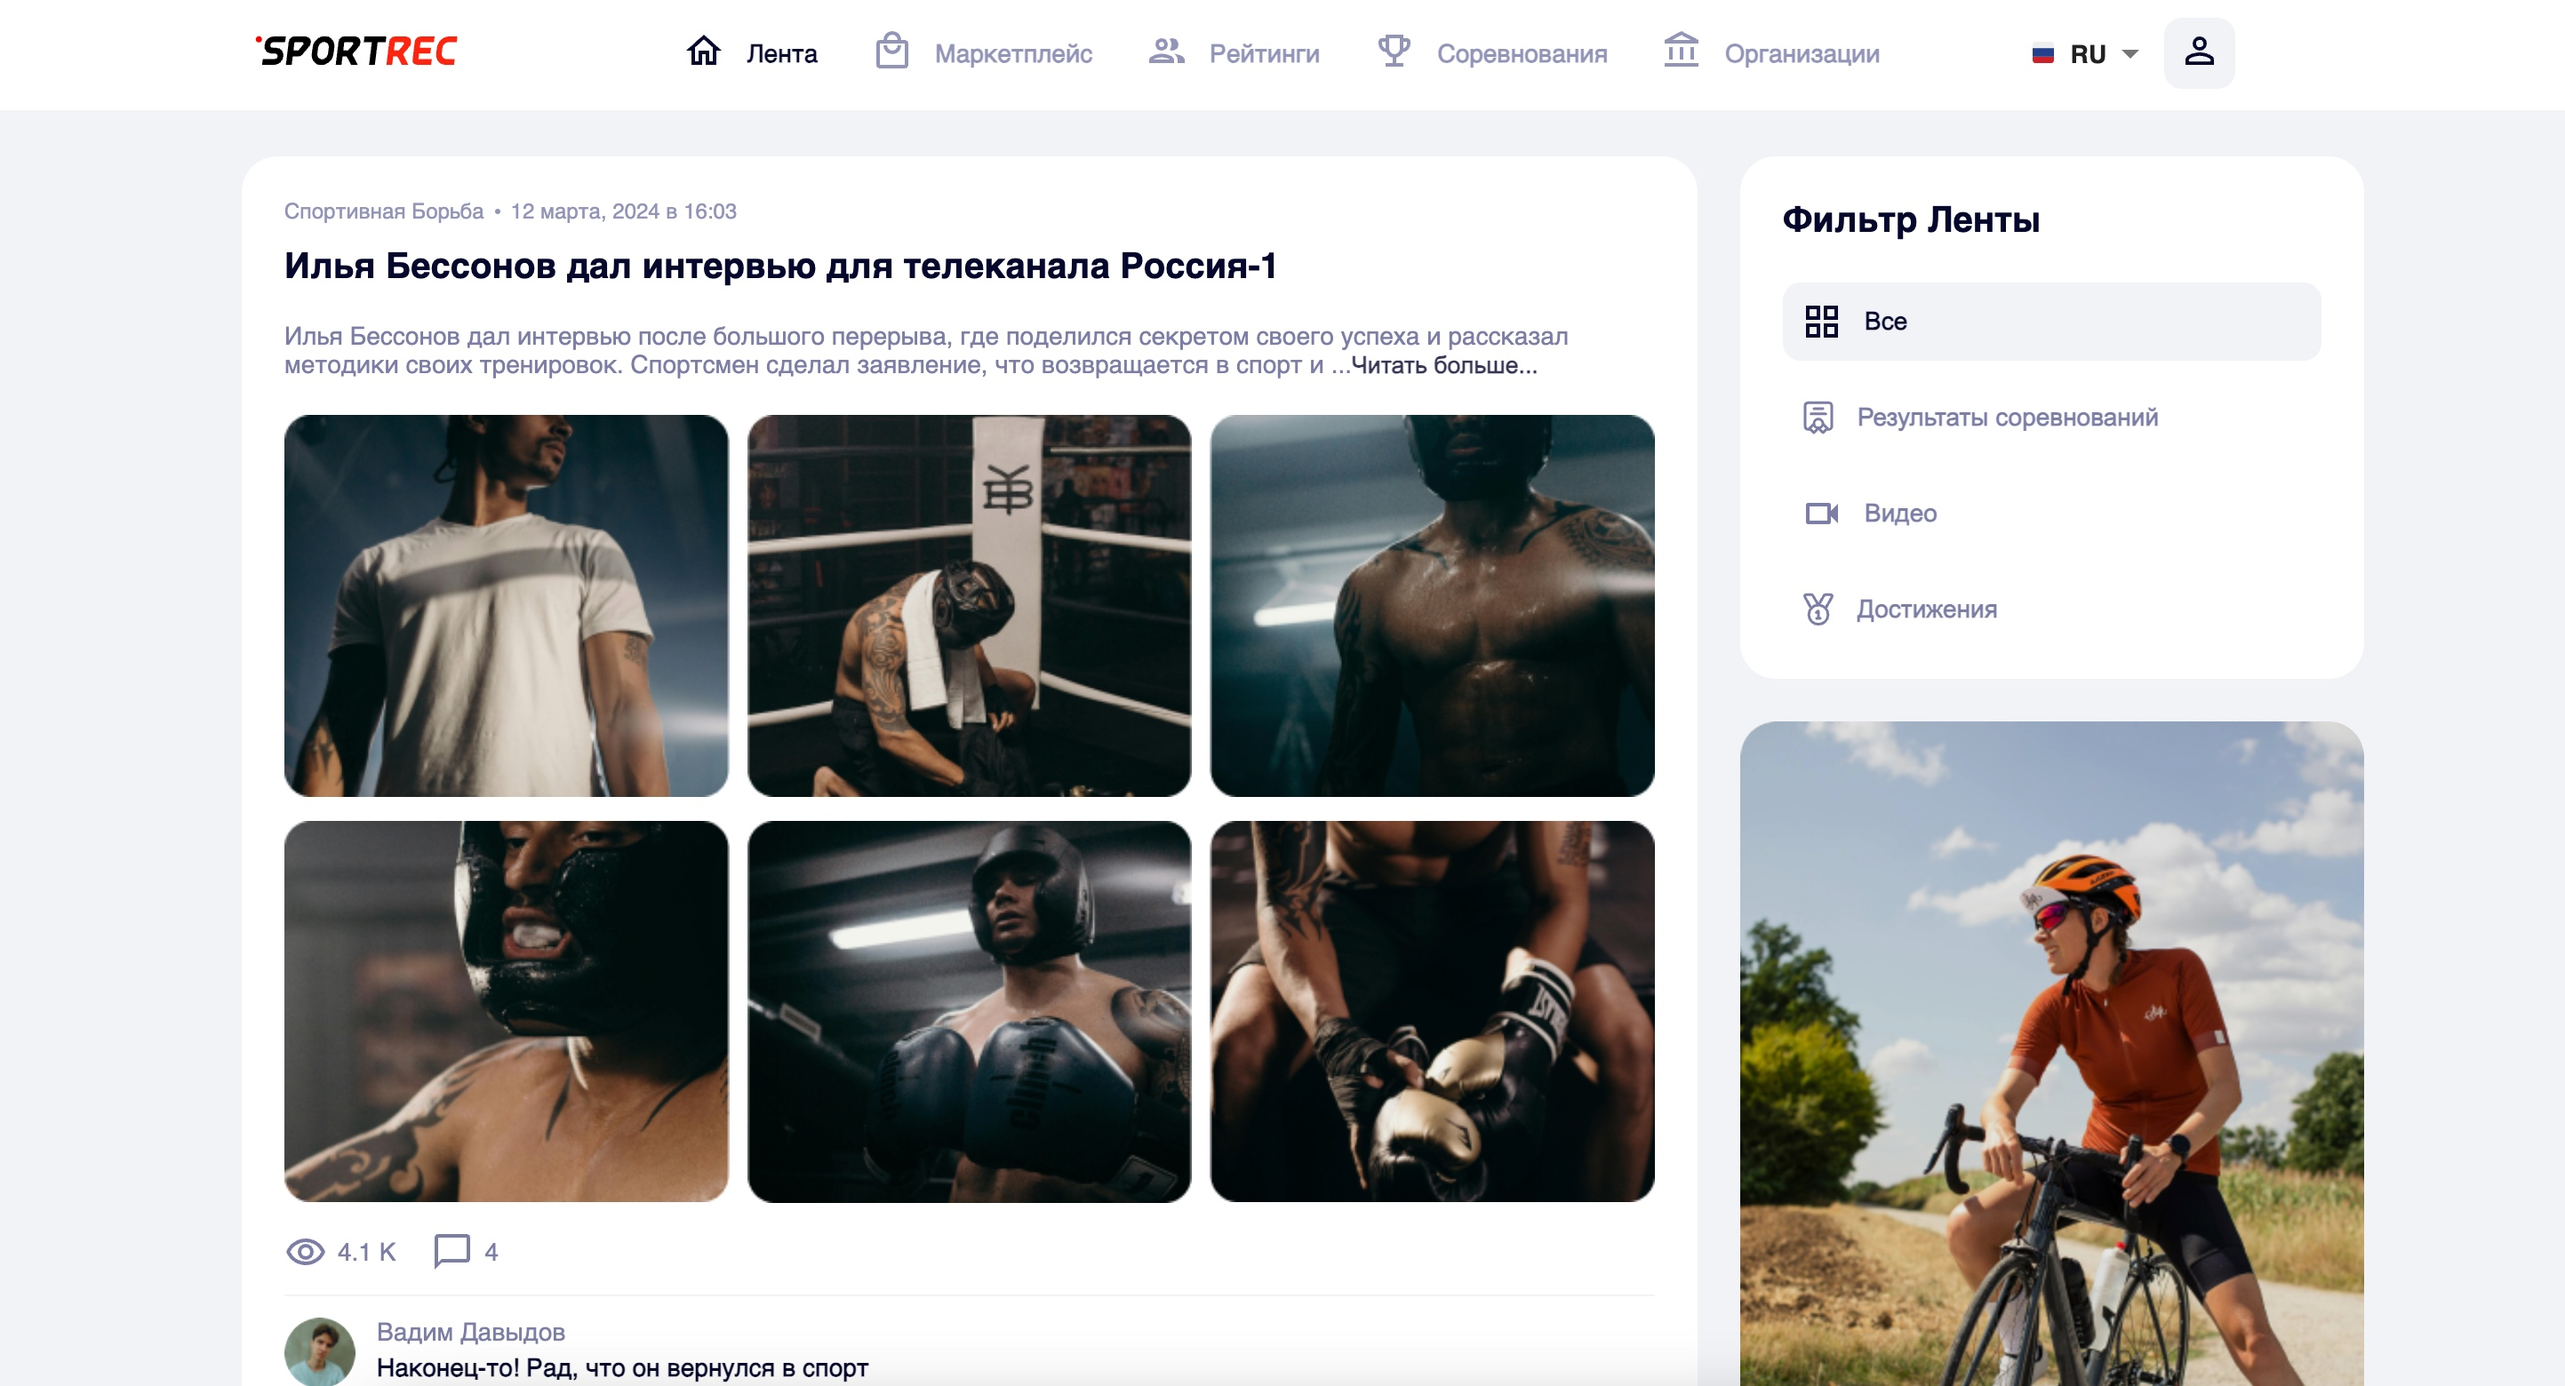
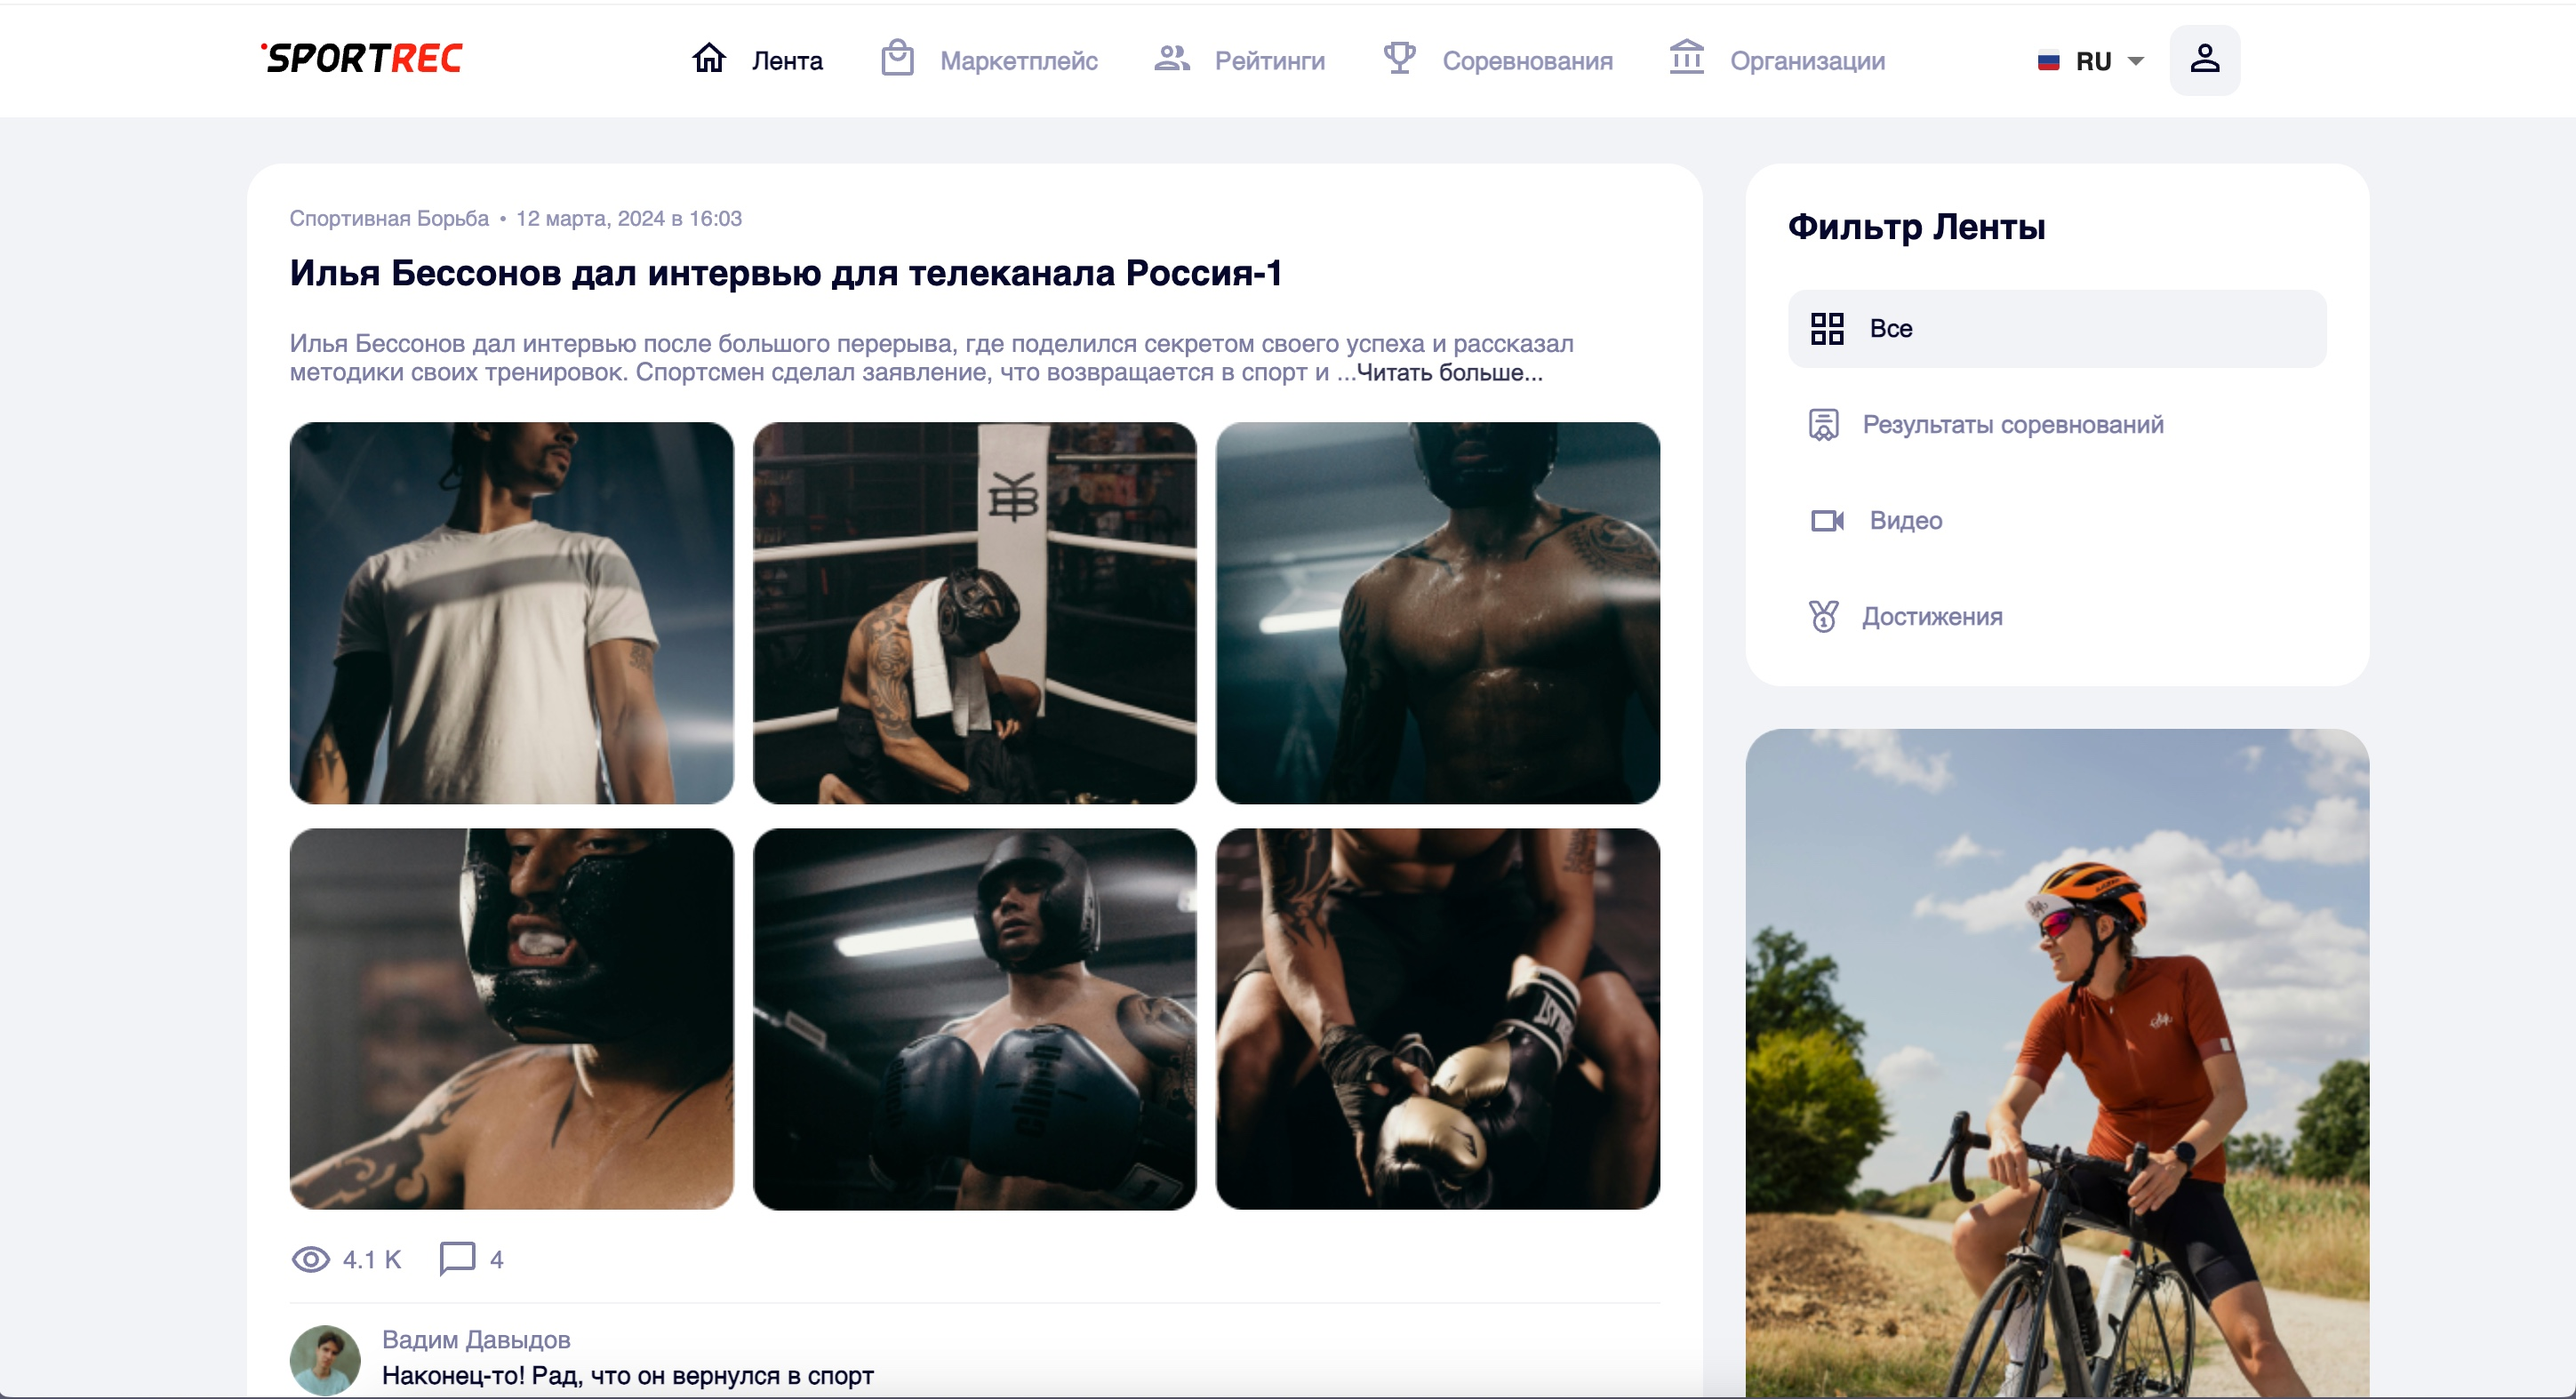
png to jpeg

diff --git a/README.md b/README.md
@@ -1,6 +1,7 @@
 # Sportrec - Test task for https://geex-arts.com
+job title: Creative Web Developer
 
-![img](1.png)
+![img](1.jpeg)
 ![img](2.png)
 ![img](3.png)
 ![img](4.png)
